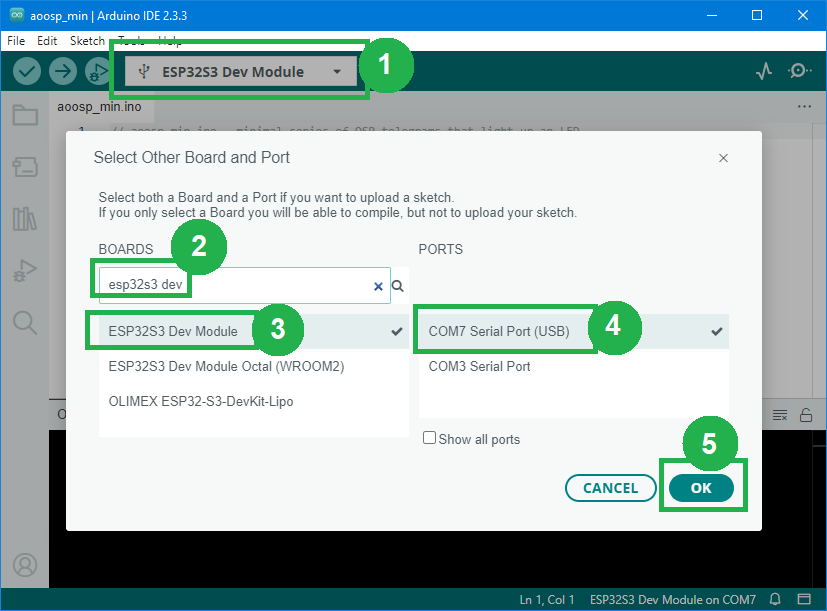
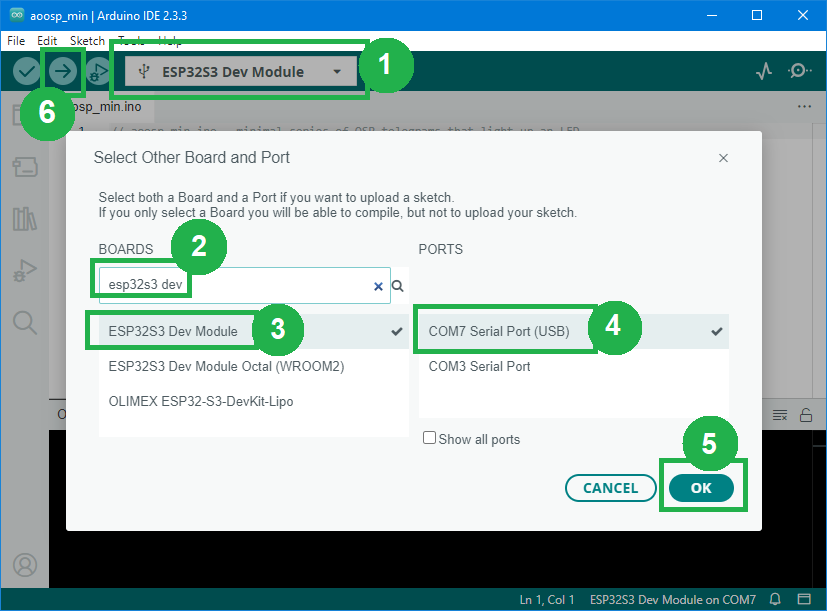
0.1.7
- Version update: ESP32 from 3.0.5 to 3.0.7.
- Updated OSP system picture.
- Text corrections, improved images and extra links in `readme.md` and `gettingstarted.md`.

Changed region(s): [[0.0, 0.0622, 0.1209, 0.2488]]

diff --git a/src/aotop.h b/src/aotop.h
@@ -23,7 +23,7 @@
 
 
 // Identifies lib version
-#define AOTOP_VERSION "0.1.6"
+#define AOTOP_VERSION "0.1.7"
 
 // This lib does not contain reusable code, only examples and documentation.
 

diff --git a/gettingstarted.md b/gettingstarted.md
@@ -52,12 +52,14 @@ on the OSP32 board with the _aolibs_.
 
 - Desktop/laptop with and install rights.  
   The developers of the _aolibs_ use Windows, but Linux or Mac should also work.
-- Internet connection.
-- OSP32 board (but some simple examples also work with just an ESP32).
-- One ERNI Minibridge cable and/or a terminator.
-- Optional some OSP demo boards (e.g. SAIDlooker, SAIDbasic).
-- The latter three come in the 
-  [Arduino OSP evaluation kit](https://ams-osram.com/products/boards-kits-accessories/kits/ams-as1163-qf-evm-kt-osp-evaluation-kit)
+- Internet connection (to download IDE, compiler, libraries).
+- Target hardware, e.g. from the 
+  [Arduino OSP evaluation kit](https://ams-osram.com/products/boards-kits-accessories/kits/ams-as1163-qf-evm-kt-osp-evaluation-kit),
+  like
+
+  - OSP32 board (but some simple examples also work with just an ESP32).
+  - One ERNI Minibridge cable and/or a terminator.
+  - Optional some OSP demo boards (e.g. RGBIstrip, SAIDlooker, SAIDbasic).
 
 
 ## Installation
@@ -65,6 +67,11 @@ on the OSP32 board with the _aolibs_.
 1. **Install Arduino IDE**  
    From the Arduino website, [download](https://www.arduino.cc/en/software) 
    and install Arduino IDE.
+   
+   Section [versions](#versions) lists which versions are tested to work.
+   We recommend to use the latest versions (for the Arduino IDE, and also for 
+   the board package mentioned below). Only when you have problems revert to
+   the versions listed there.
 
 2. **Install "board" (compiler)**  
    The ESP32S3 compiler (tools, runtime) needs to be installed in the Arduino IDE.
@@ -112,7 +119,7 @@ on the OSP32 board with the _aolibs_.
    telegrams to blink an RGB LED.
    
    Connect the OSP32 board to the PC: plug a USB cable
-   to the USB plug labeled **CMD** on the OSP32 PCB. 
+   to the USB plug labeled **CMD** on the OSP32 PCB ("UART" on the ESP PCB). 
    With one of the ERNI cables supplied with the evaluation kit, 
    connect the connector labeled OUT with the connector labeled IN,
    both on the OSP32 board right-hand side edge.
@@ -128,7 +135,7 @@ on the OSP32 board with the _aolibs_.
 
    Select the correct board (compiler) "ESP32S3 Dev Module" and correct 
    Serial port (here COM7), then (compile and) Upload, either via the button 
-   bar (the "play" triangle) or via Sketch > Upload.
+   bar (the arrow for Upload) or via Sketch > Upload.
    
    ![Compile settings](extras/compilesetting.png)
 
@@ -274,23 +281,37 @@ There are several sources of documentation:
 
   The `readme.md` of _aospi_ deserves reading, especially the section 
   ["System overview"](https://github.com/ams-OSRAM/OSP_aospi/tree/main?tab=readme-ov-file#System-overview).
+  
+  The `readme.md` of _aocmd_ explains the [command interpreter](https://github.com/ams-OSRAM/OSP_aocmd?tab=readme-ov-file#example-commands),
+  it is suitable for quick (OSP) experiments without programming.
 
 - **Examples**  
   Every _aolib_ comes with examples, find them via 
   "File > Examples > ams-OSRAM OSP xxx > ...".
   
-  This ranges from simple software examples (how to assert, how to compute CRC),
-  using the communications layer (tx, rx, timing), trying OSP features
-  (error behavior, grouping/multicat, i2c, otp, sync, topology), demonstrating
-  the command interpreter (adding your own command), middleware features
+  This ranges from simple software 
+  [examples](https://github.com/ams-OSRAM/OSP_aoresult/tree/main/examples) 
+  (how to assert, how to print errors, how to compute CRC), using the 
+  [communications](https://github.com/ams-OSRAM/OSP_aospi/tree/main/examples) 
+  layer (tx, rx, timing), trying 
+  [OSP features](https://github.com/ams-OSRAM/OSP_aoosp/tree/main/examples)
+  (error behavior, grouping/multicast, I2C, OTP, SYNC, topology, clustering, serial cast), demonstrating the 
+  [command interpreter](https://github.com/ams-OSRAM/OSP_aocmd/tree/main/examples) 
+  (adding your own command), 
+  [middleware features](https://github.com/ams-OSRAM/OSP_aomw/tree/main/examples)
   (topology manager, I/O-expander driver, EEPROM driver, animation script),
-  using the OSP32 user interface elements (buttons, signaling LEDs, OLED),
-  reusable apps, and finally the "big" official top-level sketches 
-  (osplink, saidbasic).
+  using the OSP32 [user interface elements](https://github.com/ams-OSRAM/OSP_aoui32/tree/main/examples) 
+  (buttons, signaling LEDs, OLED), reusable 
+  [apps](https://github.com/ams-OSRAM/OSP_aoapps/tree/main/examples), 
+  and finally the official applications 
+  [saidbasic](examples/saidbasic) and [osplink](examples/osplink).
+
+  The `readme.md` of every library shortly describes each example.
 
 - **Training slides**  
   There are [slides](extras/manuals/ArduinoOSP-Training.pptx) for a training 
-  on _aolibs_ with the _Arduino OSP evaluation kit_.
+  on _aolibs_ with the _Arduino OSP evaluation kit_. They come with exercises, see the 
+  `training` examples in [aotop](https://github.com/ams-OSRAM/OSP_aotop/tree/main/examples).
 
 - **API documentation**  
   In every _cpp_ file (not in the header file), 
@@ -326,7 +347,7 @@ In general, take the latest greatest of all components. If there are
 problems, these are the versions the _aolib_ developers used and tested.
 
 - Arduino IDE 2.3.3.
-- Board manager "esp32 by Espressif Systems" 3.0.5.
+- Board manager "esp32 by Espressif Systems" 3.0.7.
 - No external libraries are used
 - As PCB the OSP32 v10 and SAIDbasic v7.
 
@@ -466,9 +487,9 @@ Here is how to try it.
    
    ![OSP32 with two USB cables](extras/dbg-osp32.jpg)
    
-   One is connected to **CMD** (UART), this is for Serial interaction 
-   (and upload). The other is connected to **DBG** (USB), this is for 
-   debugging using JTAG.
+   One is connected to **CMD** (labeled UART on the ESP board), 
+   this is for Serial interaction (and upload). The other is connected to 
+   **DBG** (labeled USB on the ESP board), this is for debugging using JTAG.
    
    ![CMD and DBG over USB](extras/dbg-usb2x.jpg)
    
@@ -529,10 +550,11 @@ Here is how to try it.
    
    The VARIABLES section shows the received bytes: `size` is 6 and
    `tele.data` contains A0 09 03 00 50 63.
-   We can pretty print that with `OSP_aospi\python\telegram`.
+   We can pretty print that with the python script `OSP_aospi\python\telegram`
+   on the PC (or with the command `osp fields A0 09 03 00 50 63` on the ESP).
    
    ```
-   (env) C:\repos\SAID-appl\trunk\5-software\arduinoosp\OSP_aospi\python\telegram>run A0 09 03 00 50 63
+   (env) ...\OSP_aospi\python\telegram>run A0 09 03 00 50 63
              +---------------+---------------+---------------+---------------+---------------+---------------+
    byteval   |      A0       |      09       |      03       |      00       |      50       |      63       |
    byteix    |0 0 0 0 0 0 0 0|1 1 1 1 1 1 1 1|2 2 2 2 2 2 2 2|3 3 3 3 3 3 3 3|4 4 4 4 4 4 4 4|5 5 5 5 5 5 5 5|

diff --git a/readme.md b/readme.md
@@ -69,7 +69,7 @@ This section links to various resources.
 - [Arduino OSP evaluation kit](https://ams-osram.com/products/boards-kits-accessories/kits/ams-as1163-qf-evm-kt-osp-evaluation-kit). 
   The kit contains:
 
-  - 1× OPS32 ([schematics](extras/schematics/OSP32_complete_v10.pdf)): root MCU board with an ESP32 (flashed with the [saidbasic](examples/saidbasic) demo), two SAIDs, and an I2C EEPROM (not flashed);
+  - 1× OSP32 ([schematics](extras/schematics/OSP32_complete_v10.pdf)): root MCU board with an ESP32 (flashed with the [saidbasic](examples/saidbasic) demo), two SAIDs, and an I2C EEPROM (not flashed);
   - 1× SAIDlooker ([schematics](extras/schematics/SAIDLooker_complete_v3.1.pdf)): demo board with 3 SAIDs;
   - 1× RGBIstrip ([schematics](extras/schematics/OSIRE_E3731i_V2.3.pdf)): demo board with 20 RGBIs;
   - 1× SAIDbasic ([schematics](extras/schematics/SAIDbasic_complete_v7.1.pdf)): demo board with 3 SAID and 4 RGBIs, I/O-expander and I2C EEPROM flashed with [rainbow](examples/eepromflasher) script;
@@ -135,24 +135,27 @@ File > Examples > OSP ToplevelSketches aotop > ...
 
 
 - **saidbasic** ([source](examples/saidbasic))  
-  This application assumes a SAIDbasic board is connected to the OSP32 board.
-  It shows several features of the SAID, which can be selected via the 
-  (A,X and Y) button on the OSP32 board.
-
+  This is an official application (centered around the SAIDbasic board). 
+  This demo contains 4 apps: scripted animation (from EEPROM), running LED, 
+  (country) flags selected by pressing a button, and a dithering demo. 
+  It comes with a [user manual](extras/manuals/saidbasic.pptx).
+  
 - **eepromflasher** ([source](examples/eepromflasher))  
   One of the features of the `saidbasic` application is to play (LED animation)
   scripts from an EEPROM. There are EEPROMs on the OSP32 board, the SAIDbasic
-  board, and on stand-alone I2C EEPROM sticks. The eepromflasher application
+  board, and on stand-alone I2C EEPROM sticks. This `eepromflasher` application
   allows writing any script (stock or user developed) to any of these EEPROMs.
   The stock scripts are `rainbow`, `bouncingblock`, `colormix`, and `heartbeat`.
 
-
 - **osplink** ([source](examples/osplink))  
-  This application allows the PC (with a terminal like the Arduino Serial 
+  This is another official application. 
+  It allows the PC (with a terminal like the Arduino Serial 
   Monitor) to send and receive OSP telegrams, using serial-over-USB. 
-  There is also an experimental Python app for PC, that sends commands to the 
-  OSPlink application. Please find it in 
-  [`aocmd/python`](https://github.com/ams-OSRAM/OSP_aocmd/tree/main/python).
+  There is  [documentation](https://github.com/ams-OSRAM/OSP_aocmd?tab=readme-ov-file#example-commands)
+  on using the command interpreter.
+  There is also an experimental Python app for PC
+  [`aocmd/python`](https://github.com/ams-OSRAM/OSP_aocmd/tree/main/python), 
+  that sends commands to the `osplink` application.
 
 - **training** ([source](examples/training1), [source](examples/training2), [source](examples/training3))  
   These are exercises for the [training](extras/manuals/ArduinoOSP-Training.pptx).
@@ -168,6 +171,11 @@ which identifies the version of this "library".
 
 ## Version history _aotop_
 
+- **2024 November 29, 0.1.7**
+  - Version update: ESP32 from 3.0.5 to 3.0.7.
+  - Updated OSP system picture.
+  - Text corrections, improved images and extra links in `readme.md` and `gettingstarted.md`.
+  
 - **2024 November 8, 0.1.6**  
   - New image for evaluation kit; link added.
   - Added schematic for RGBI strip `OSIRE_E3731i_V2.3.pdf`.
